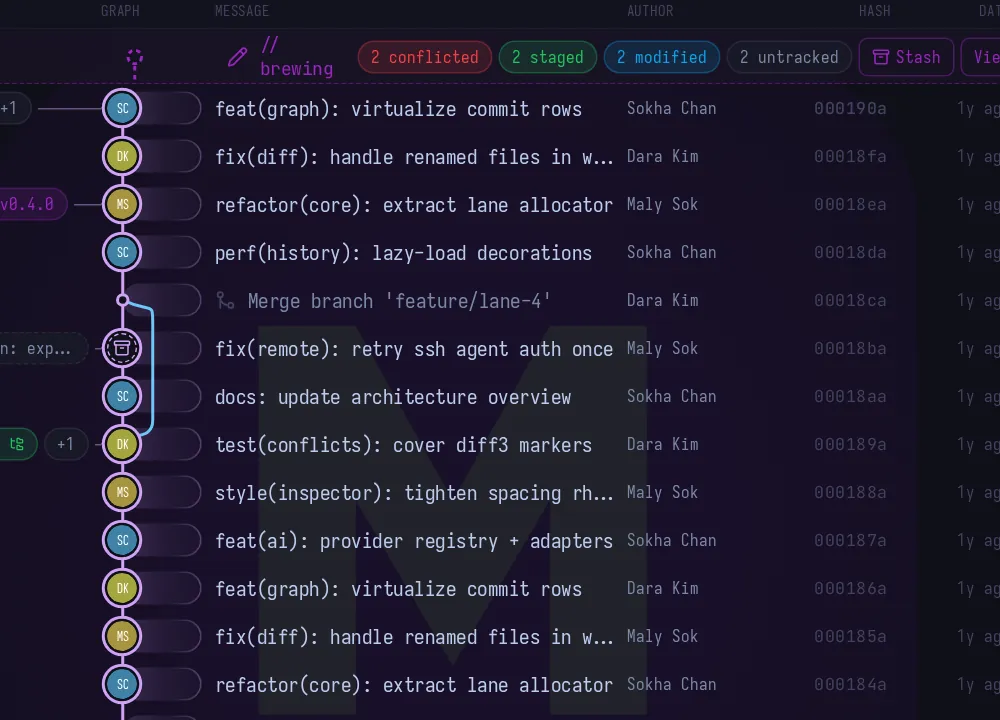
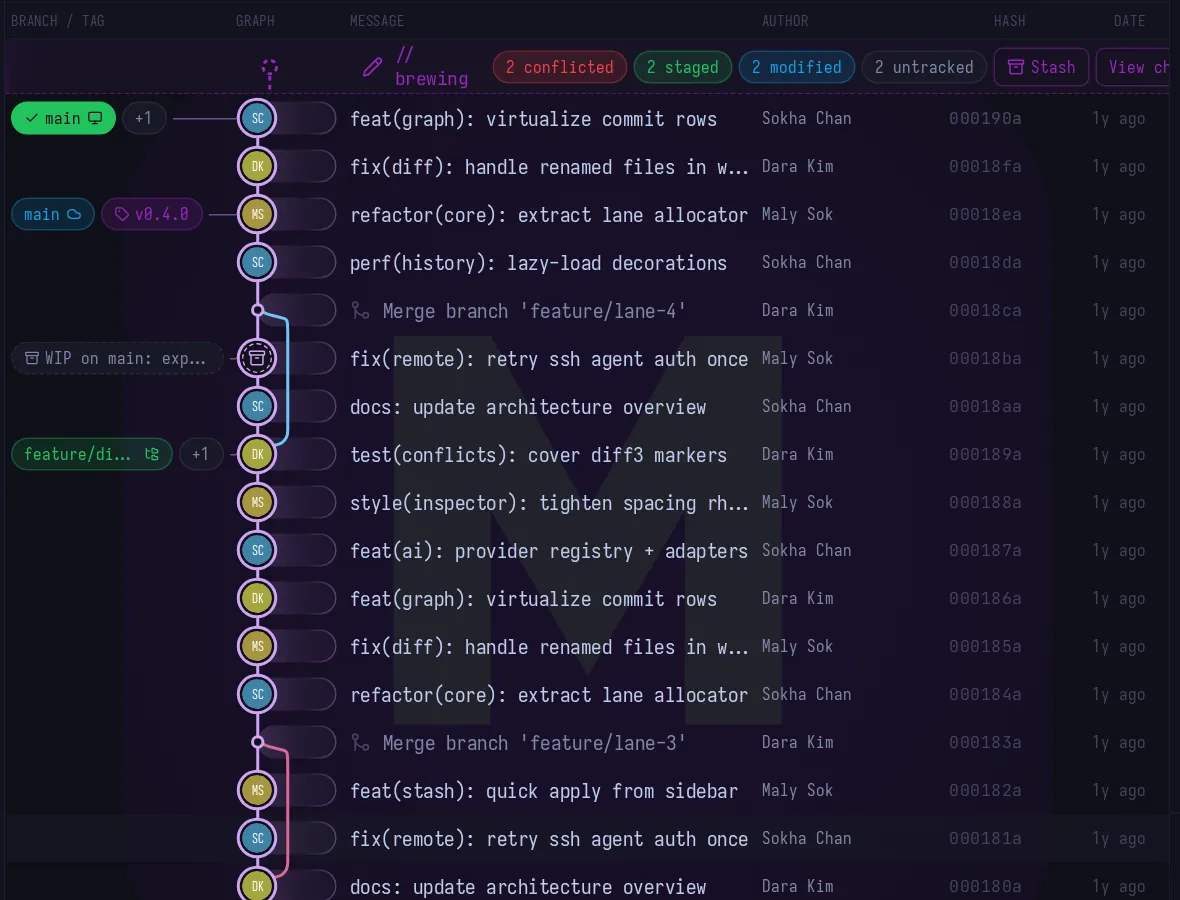
fea lp: update landing page

diff --git a/site/index.html b/site/index.html
@@ -159,9 +159,11 @@
           <p>gitmoire runs Git on Rust and libgit2 instead of a pile of shell scripts, so a hundred thousand commits scroll like fifty.</p>
         </div>
         <figure class="bars" aria-label="Size comparison: gitmoire 14 megabytes, an Electron client about 1 gigabyte">
-<pre><span class="k">gitmoire download</span>  <span class="g">▏</span> 14 MB
-<span class="k">gitmoire installed</span> <span class="g">▎</span> ~28 MB
-<span class="k">Electron client</span>    <span class="r">████████████████████████████████</span> ~1 GB</pre>
+          <div class="chart">
+            <div class="row"><span class="lbl">gitmoire download</span><span class="track"><i class="bar ok" style="width:1.4%"></i></span><span class="val">14 MB</span></div>
+            <div class="row"><span class="lbl">gitmoire installed</span><span class="track"><i class="bar ok" style="width:2.8%"></i></span><span class="val">~28 MB</span></div>
+            <div class="row"><span class="lbl">Electron client</span><span class="track"><i class="bar bad" style="width:100%"></i></span><span class="val">~1 GB</span></div>
+          </div>
           <figcaption class="meta">14 MB is the universal macOS .dmg. Bars are to scale, and yes, the top one is that small.</figcaption>
         </figure>
       </div>
@@ -172,8 +174,10 @@
           <p>GitKraken took me almost 40 seconds to open. gitmoire opens in under 5. That's not a benchmark suite, it's me waiting for a window on my own machine, which is the only benchmark that has ever annoyed me.</p>
         </div>
         <figure class="bars" aria-label="Time to open: gitmoire under 5 seconds, GitKraken almost 40 seconds">
-<pre><span class="k">gitmoire </span> <span class="g">████</span> under 5 s
-<span class="k">GitKraken</span> <span class="r">████████████████████████████████</span> ~40 s</pre>
+          <div class="chart">
+            <div class="row"><span class="lbl">gitmoire</span><span class="track"><i class="bar ok" style="width:12.5%"></i></span><span class="val">under 5 s</span></div>
+            <div class="row"><span class="lbl">GitKraken</span><span class="track"><i class="bar bad" style="width:100%"></i></span><span class="val">~40 s</span></div>
+          </div>
           <figcaption class="meta">Time to a usable window, measured by hand on my machine. Your mileage will vary, and so will theirs.</figcaption>
         </figure>
       </div>
@@ -366,7 +370,7 @@
         </div>
         <figure class="pane focus">
           <figcaption class="pane-title" id="lane-name">gitmoire</figcaption>
-          <div class="viewport"><img id="lane-shot" src="/assets/shots/lanes-gitmoire.webp" width="1000" height="720" loading="lazy" alt="The gitmoire commit graph with the Gitmoire lane palette."></div>
+          <div class="viewport"><img id="lane-shot" src="/assets/shots/lanes-gitmoire.webp" width="1180" height="900" loading="lazy" alt="The gitmoire commit graph with the Gitmoire lane palette."></div>
           <figcaption class="meta shot-note" id="lane-note">Default wheel.</figcaption>
         </figure>
       </div>

diff --git a/site/assets/style.css b/site/assets/style.css
@@ -450,3 +450,23 @@ html[data-release="live"] .not-live { display: none; }
 .lane-row { display: flex; align-items: center; gap: 10px; }
 .lane-row .lbl { width: 6ch; color: hsl(var(--muted)); font-size: 12.5px; }
 .lane-row i { width: 28px; height: 28px; display: block; border: 1px solid hsl(var(--faint)); }
+
+/* to-scale bar charts: CSS bars, so they never scroll */
+.chart {
+  border: 1px solid hsl(var(--border)); background: hsl(var(--surface));
+  padding: 16px; display: grid; gap: 12px;
+}
+.chart .row { display: grid; grid-template-columns: 19ch 1fr auto; gap: 8px 14px; align-items: center; }
+.chart .lbl { white-space: nowrap; }
+.chart .track { display: block; height: 18px; }
+.chart .bar {
+  display: block; height: 100%; min-width: 3px;
+  background-image: repeating-linear-gradient(90deg, transparent 0 11px, hsl(var(--surface)) 11px 12px);
+}
+.chart .bar.ok { background-color: hsl(var(--ok)); }
+.chart .bar.bad { background-color: hsl(var(--danger)); }
+.chart .val { white-space: nowrap; color: hsl(var(--muted)); }
+@media (max-width: 560px) {
+  .chart .row { grid-template-columns: 1fr auto; }
+  .chart .track { grid-column: 1 / -1; grid-row: 2; }
+}
